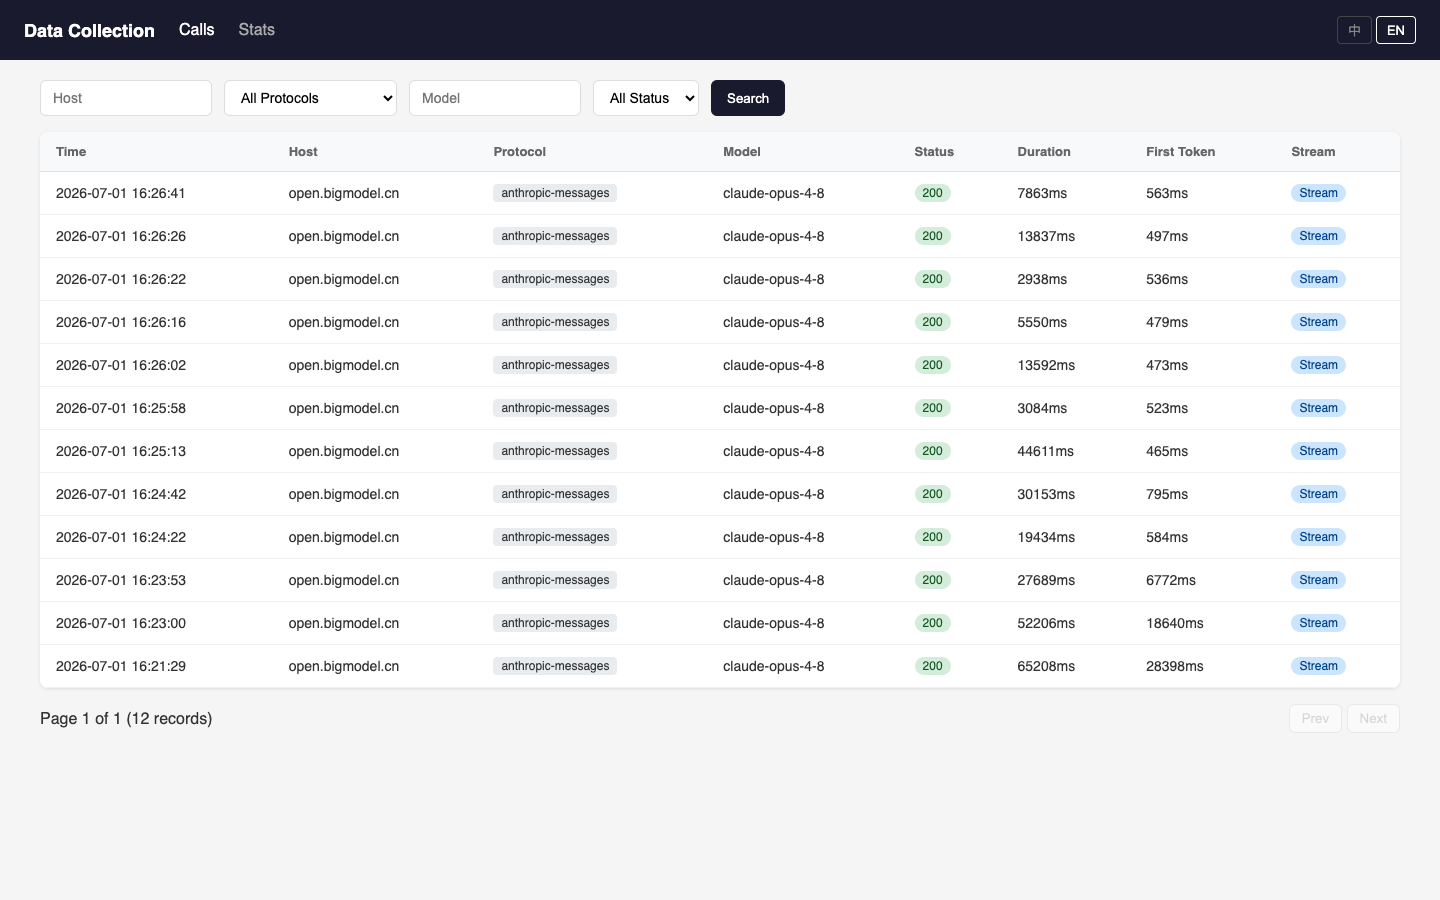
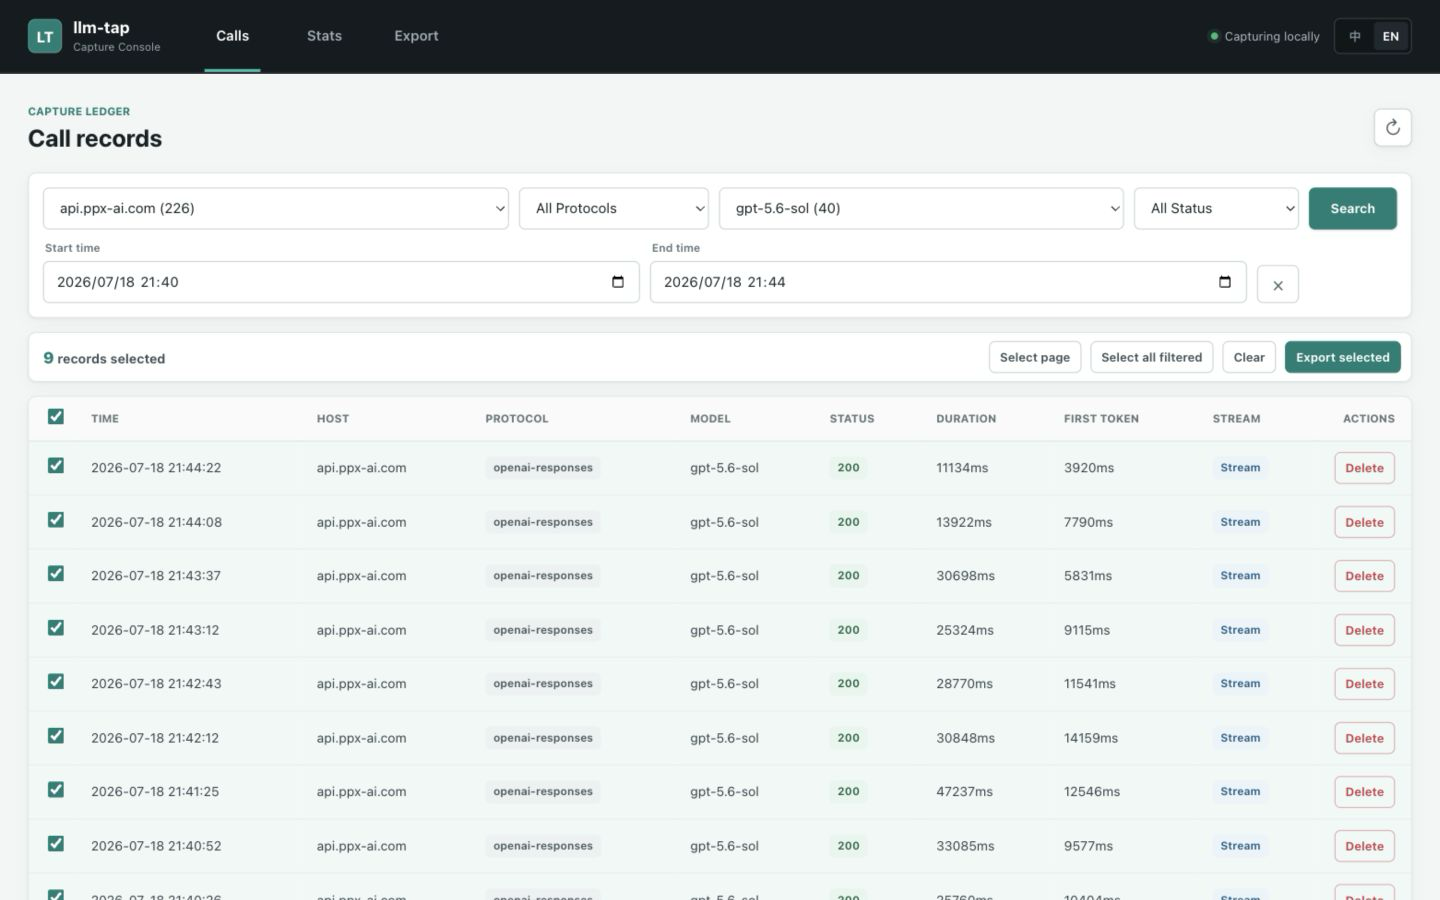
Refresh Web UI screenshots

diff --git a/README.md b/README.md
@@ -395,17 +395,21 @@ To accept LAN or other non-loopback connections, both a dedicated proxy token an
 
 Remote proxy requests must additionally send `X-LLM-Tap-Token: proxy-secret`. This header is never forwarded upstream, leaving `Authorization` or `x-api-key` available for the real provider credential. Then open `http://host:12345/?token=change-me` once to set the browser cookie. Web API clients can also send `Authorization: Bearer change-me`.
 
-### Call List
+### Filter and select calls
 
-![Call List](docs/screenshots/overview-en.png)
+![Call list with database-driven filters, time range, and explicit record selection](docs/screenshots/overview-en.png)
 
 ### Call Detail
 
-![Call Detail](docs/screenshots/detail-en.png)
+![Call detail with metadata and collapsible request, response, and sanitized headers](docs/screenshots/detail-en.png)
 
 ### Statistics Overview
 
-![Statistics Overview](docs/screenshots/stats-en.png)
+![Statistics overview by host, protocol, and model](docs/screenshots/stats-en.png)
+
+### Export Selected Records
+
+![Training data export for explicitly selected calls](docs/screenshots/export-en.png)
 
 ## FAQ
 